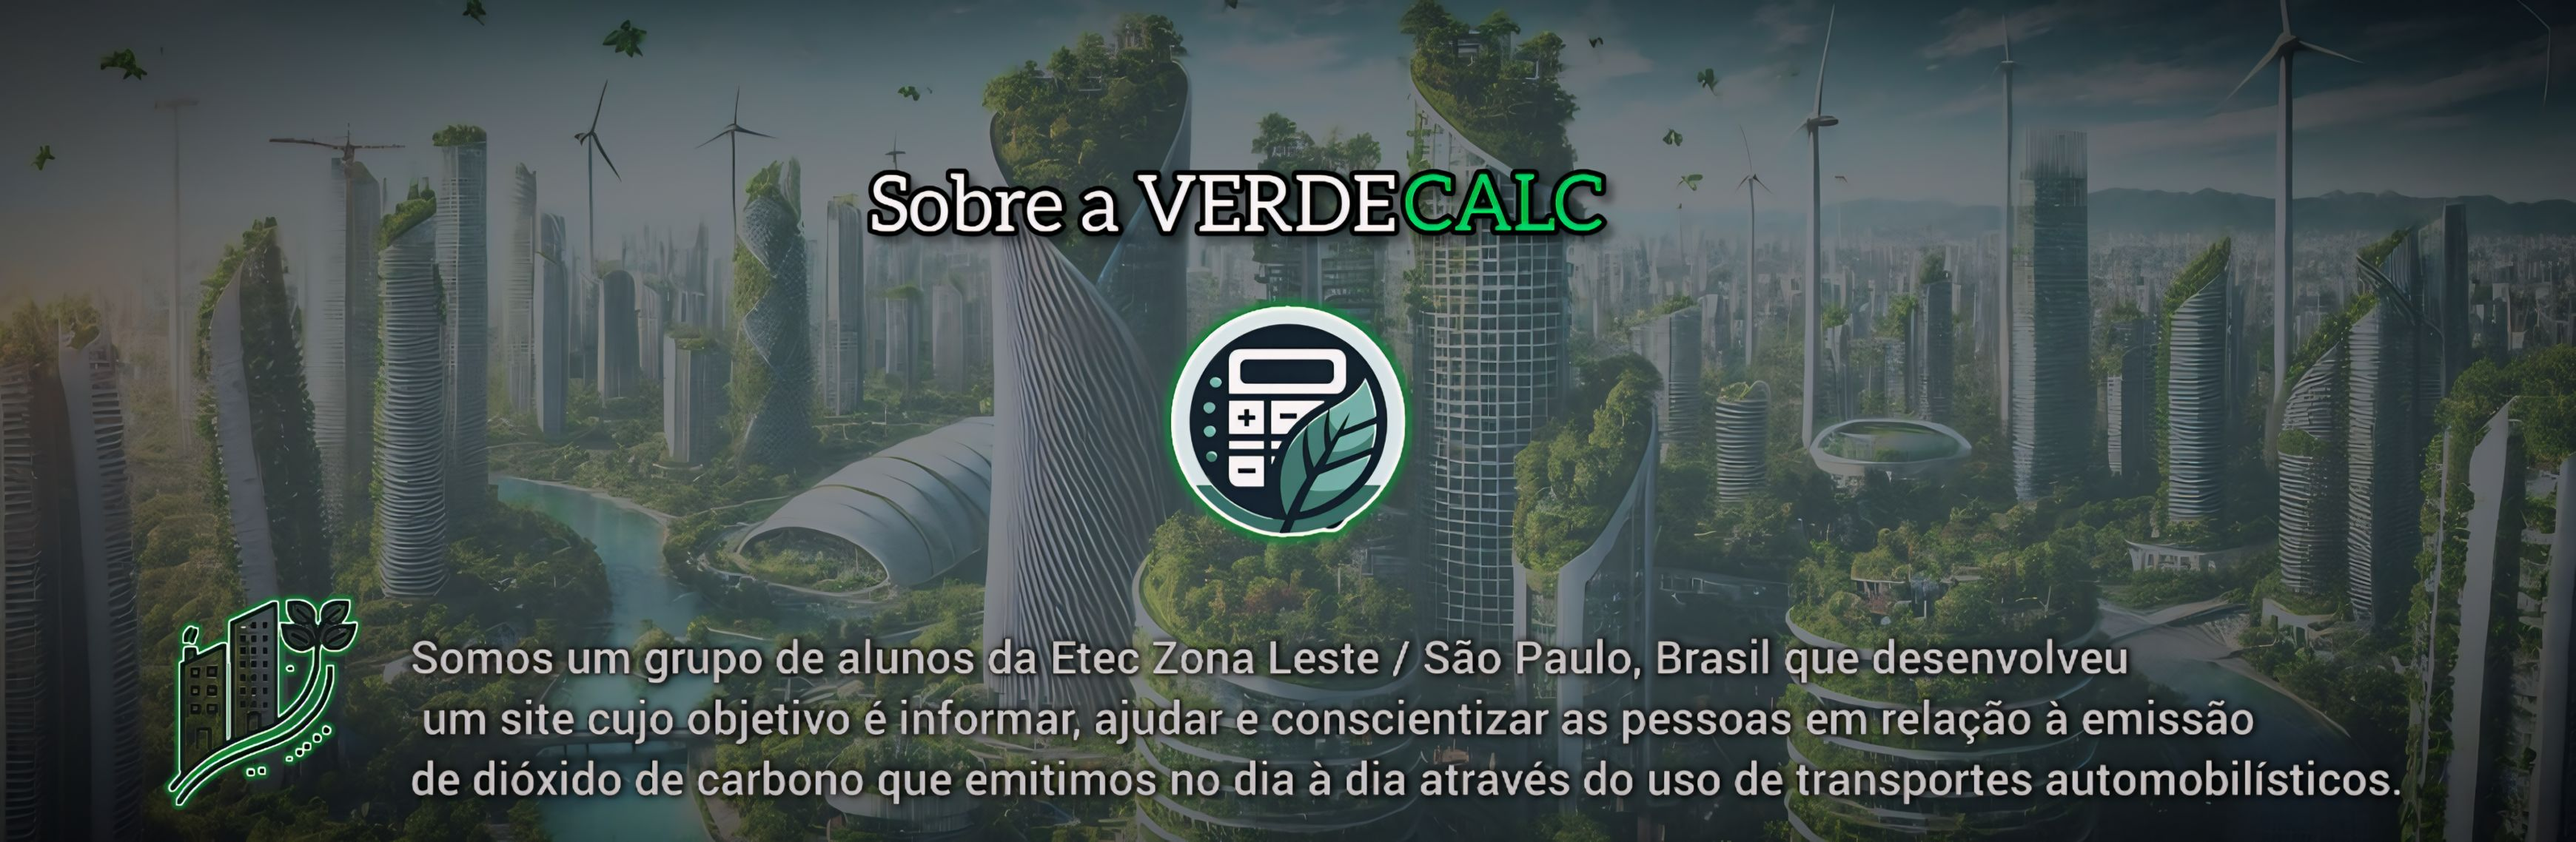
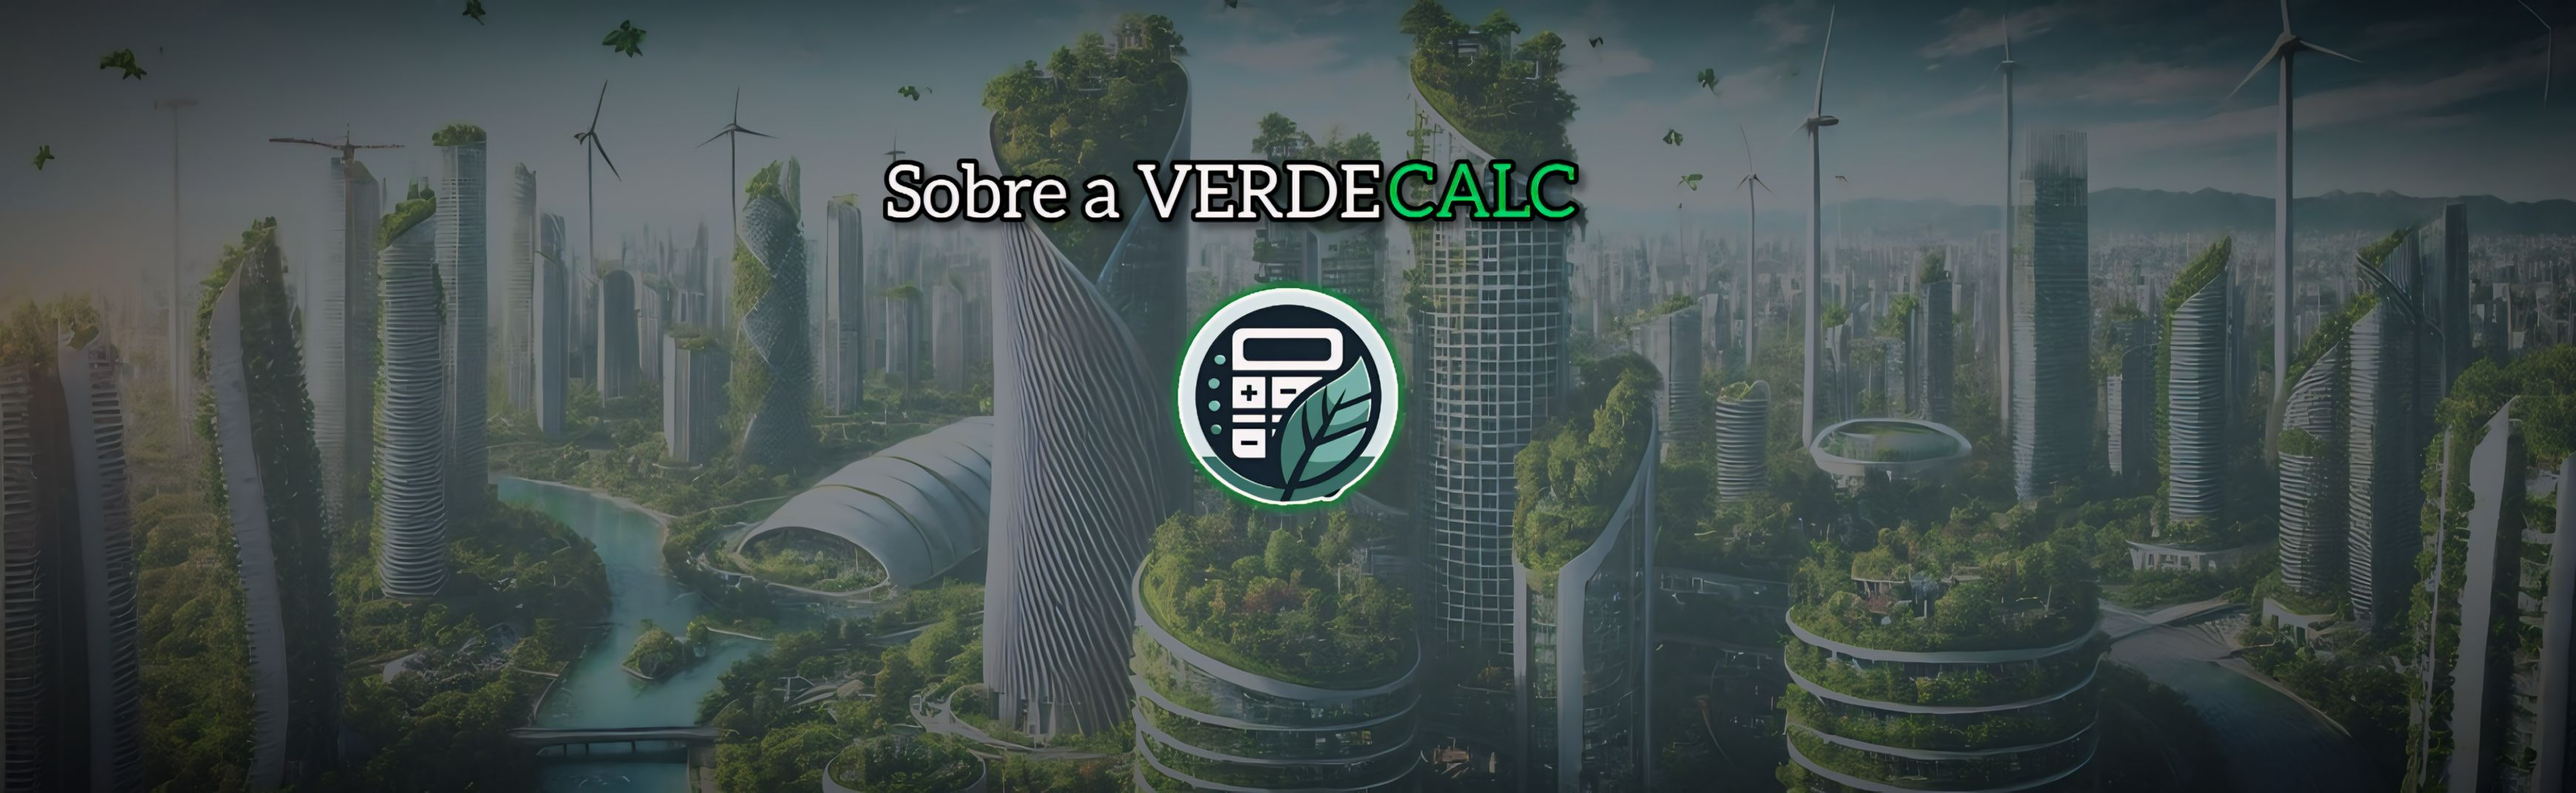
subindo o Quem Somos

diff --git a/FeiraTecnologica/src/views/Style/styleSomos.css b/FeiraTecnologica/src/views/Style/styleSomos.css
@@ -1,7 +1,211 @@
-.nav-link {
-    color: white !important;
-    margin-left: 20px;
+*{
+    margin: 0;
+    padding: 0;
+    box-sizing: border-box;
+    }
+
+.decora-nav{
+    background-color: rgb(0, 0, 0); 
+    box-shadow: 5px 5px 19px rgba(22, 117, 61, 0.6);
+    border-radius: 5px;
+    padding: 0px; 
+      
 }
-.nav-link:hover {
-    color: #d1e7dd !important;
+
+
+p{
+   
+    margin: -12px;
+}
+
+.centered {
+    display: flex;
+    justify-content: center;
+    margin-top: 20px; /* Ajuste a margem para posicionar o loader no topo */
+  }
+  
+  /* Estilos do loader */
+  .loader {
+    color: rgb(255, 255, 255);
+    font-family: "Poppins", sans-serif;
+    font-weight: 500;
+    font-size: 25px;
+    box-sizing: content-box;
+    padding: 10px 10px;
+    display: flex;
+    align-items: center;
+    border-radius: 8px;
+  }
+  
+
+
+  .words {
+    overflow: hidden;
+    position: relative;
+    height: 1em;
+    margin-left: 10px;
+  }
+  
+  .words::after {
+    content: "";
+    position: absolute;
+    inset: 0;
+    background: linear-gradient(
+      var(--bg-color) 10%,
+      transparent 30%,
+      transparent 70%,
+      var(--bg-color) 90%
+    );
+    z-index: 20;
+  }
+  
+  .word {
+    display: block;
+    height: 100%;
+    padding-left: 6px;
+    color: #00FF08;
+    animation: spin_4991 6s infinite;
+  }
+  
+  @keyframes spin_4991 {
+    10% {
+      transform: translateY(-102%);
+    }
+    25% {
+      transform: translateY(-100%);
+    }
+    35% {
+      transform: translateY(-202%);
+    }
+    50% {
+      transform: translateY(-200%);
+    }
+    60% {
+      transform: translateY(-302%);
+    }
+    75% {
+      transform: translateY(-300%);
+    }
+    85% {
+      transform: translateY(-402%);
+    }
+    100% {
+      transform: translateY(-400%);
+    }
+  }
+ 
+  
+/*Estilo do fundo */
+body{
+    background-image: url(../imagens/selvas-plantas.png);
+    background-size: cover;
+    background-repeat: no-repeat;
+    }
+/* Imagem de aprsentação "sobre a verdecalc" */
+.apresentando{
+    box-shadow: 5px 5px 19px rgba(22, 117, 61, 3.5);
+    border-radius: 20px;
+    padding: 0px;
+}
+
+.flex{
+    display: flex;
+}
+
+h1 {
+    color: white; /* Cor do texto */
+    text-shadow: 
+      1.5px 1.5px 0 black,
+     -1.5px 1.5px 0 black,
+      1.5px -1.5px 0 black,
+     -1.5px -1.5px 0 black,
+      1.5px 0 0 black,
+     -1.5px 0 0 black,
+      0 1.5px 0 black,
+      0 -1.5px 0 black;
+  }
+      
+
+.interface{
+    max-width: 1280px;
+    margin: 0 auto;    
+    }
+
+ section.topo-do-site{
+    padding: 20px 4%;
+}
+
+  section.topo-do-site .flex{
+  align-items: center;
+  gap: 100px;
+  }
+
+.topo-do-site h1{
+    color: #fff;
+    font-size: 35px;
+  }
+
+.txt-topo-site{
+    border: 1px solid rgb(26, 26, 26);
+    background-color: rgb(26, 26, 26);
+    padding: 15px;
+    border-radius: 6px;
+    box-shadow: 5px 5px 15px rgba(22, 117, 61, 3.5);
+    margin-left: -35px;
+}
+
+.topo-do-site h3{
+  text-shadow: 
+    1px 1px 0 black,
+    -1px 1px 0 black,
+    1px -1px 0 black,
+    -1px -1px 0 black,
+    1px 0 0 black,
+   -1px 0 0 black,
+    0 1px 0 black,
+    0 -1px 0 black;
+  margin: -10px;
+  color: #ffffff;
+  margin: 10px ;
+}
+
+/*logo flutuante*/
+.topo-do-site .img-topo-site img{
+  position: relative;
+  animation: flutuar 2s ease-in-out infinite alternate;
+}  
+
+@keyframes flutuar{
+    0%{
+        top: 0;
+    }
+    100%{
+        top: 30px;
+    }
+}
+
+.visao{
+    position: relative;
+    animation: flutuar 2s ease-in-out infinite alternate;  
+    margin-left: 200px;
+}
+@keyframes flutuar{
+    0%{
+        top: 0;
+    }
+    100%{
+        top: 30px;
+    }
+}
+.veiculo-verde{
+    color: #00FF08;
+    text-shadow: 
+    1px 1px 0 black,
+    -1px 1px 0 black,
+    1px -1px 0 black,
+    -1px -1px 0 black,
+    1px 0 0 black,
+   -1px 0 0 black,
+    0 1px 0 black,
+    0 -1px 0 black;
 }

diff --git a/FeiraTecnologica/src/views/Pages/quem_somos.php b/FeiraTecnologica/src/views/Pages/quem_somos.php
@@ -1,38 +1,118 @@
 <!DOCTYPE html>
 <html lang="en">
+
 <head>
     <meta charset="UTF-8">
     <meta name="viewport" content="width=device-width, initial-scale=1.0">
     <title>Document</title>
-    <link rel="stylesheet" href="FeiraTecnologica\src\views\Style\styleSomos.css">
+    <link rel="stylesheet" href="../Style/styleSomos.css">
 </head>
+
 <body>
-<?php 
-    include('C:\Users\gusta\Feira_Etec\FeiraTecnologica\src\views\AppView\NavBar.php');
-  ?>
 
-<main>
-    <center><img class="apresentando" src="imgtopocorreto.jpg" width="90%" height=""></center>
-    <section class="topo-do-site">
-        <div class="interface">
-            <div class="flex">
-                <div class="txt-topo-site">
-                    <h1>CONHEÇA OS DESENVOLVEDORES E <br>COLABORADORES DA <span>VERDE</span>CALE:</h1><br>
-                    <P>Esse site foi desenvolvido por um grupo de alunos da etec zona leste que tem como objetivo, informar,<br> ajudar e conscientizar
-                     as pessoas em relação a emissão de dióxido de carbono que emitimmos no <br> dia à dia através do uso de transporte automobilistico.</P>
-                </div>
+    <?php
+    include('../AppView/NavBar.php');
+    ?>
 
-                <div class="img-topo-site">
-                     <img src="SCCP_escudo-150px.png" width="480px" alt="">
-                </div>
+
+    <div class="centered">
+        <div class="loader">
+            <p>VERDE<span class="calc">CALC.</span></p>
+            <div class="words">
+                <span class="word">reciclagem</span>
+                <span class="word">natureza</span>
+                <span class="word">conservação</span>
+                <span class="word">ecossistema</span>
+                <span class="word">preservação</span>
             </div>
-        </div><!--interface-->
-    </section><!--topo da interface-->
-</main>
+        </div>
+    </div>
 
 
-<?php
+
+
+    <main>
+        <center><img class="apresentando" src="../imagens/imgtopocorreto.jpg" width="90%" height=""></center> <br><br>
+        <section class="topo-do-site">
+            <div class="interface">
+                <div class="flex">
+                    <div class="txt-topo-site">
+                        <h3> Somos a VerdeCalc! E nossa equipe é formada por um grupo de 6 estudantes da Etec Zona-Leste, (cidade de São Paulo,
+                            Brasil), sendo eles: Alexander Borges, Davi Lucas, Carlos Henrique, Gustavo Ribeiro, Kauan Souza e Diego Oliveira;
+                            que em conjunto pensamos em como poderíamos ajudar o meio ambiente e ajudar as pessoas que se preocupam com o mesmo.
+                        </h3>
+
+                        <h3>O consumo residencial de eletricidade, gás de cozinha e cigarro representa uma importante fonte de poluição do ar e impactos ambientais. A demanda por eletricidade em casas e apartamentos gera uma necessidade constante de produção de energia, que muitas vezes provém de fontes não-renováveis, como usinas a carvão, gás natural e petróleo. Essas fontes emitem uma grande quantidade de dióxido de carbono (CO₂) e outros poluentes na atmosfera, contribuindo para o aquecimento global e a degradação da qualidade do ar. Nas residências, o uso de aparelhos elétricos em grande escala, como aquecedores, ar-condicionado e eletrodomésticos, amplifica essa demanda e, por consequência, os impactos ambientais. <br><br>
+
+                            O uso de gás de cozinha (GLP), bastante comum em residências para o preparo de alimentos, também possui um efeito poluente, embora em menor escala. Quando o gás é queimado, ele libera gases de combustão, como CO₂, que contribuem para o efeito estufa. Além disso, em situações onde o gás não é totalmente queimado, podem ser liberados monóxido de carbono (CO) e outros hidrocarbonetos, que afetam a saúde e a qualidade do ar dentro das casas, especialmente em áreas mal ventiladas. <br><br>
+
+                            Já o cigarro, por sua vez, é uma fonte de poluição residencial menos evidente, mas significativa. A queima do tabaco libera uma série de substâncias tóxicas, como nicotina, alcatrão e monóxido de carbono, que impactam diretamente a saúde dos fumantes e das pessoas ao redor, especialmente em ambientes fechados. Esses poluentes também se acumulam no ambiente, aderindo a superfícies e tecidos, o que prolonga a exposição de todos aos resíduos tóxicos.</h3>
+
+                        <h3>
+                            Pensando nisso... em um curto períódo de 4 meses de muito trabalho, a equipe VerdeCalc desenvolveu esse site com o objetivo
+                            de através da tecnologia e da matemática ajudar as pessoas a se conscientizar e preservar o meio ambiente diminuindo
+                            sua emissão de dióxido de carbono semanal.
+                        </h3>
+                    </div>
+
+                    <div class="img-topo-site">
+                        <img src="../imagens/SCCP_escudo-150px.png" width="480px" alt="">
+                    </div>
+                          
+                </div><br><br><br><br>
+
+                <div class="centered">
+        <div class="loader">
+            <p>CALCULO DE <span class="calc"> VEÍCULOS</span></p>
+            <div class="words">
+                <span class="word">diesel</span>
+                <span class="word">etanol</span>
+                <span class="word">carro</span>
+                <span class="word">caminhão</span>
+                <span class="word">moto</span>
+            </div>
+        </div>
+    </div>
+<br>
+    <div class="txt-topo-site">
+                        <h3> Claro que não tratamos apenas de gás de cozinha, eletrecidade e cigarro... até por que em média a emissão de gases poluentes
+                            desses três juntos ainda são menores em relaçao a emissão que um veículo à gasolina comum emite; pensando nessa informação
+                            importantíssima, fizemos também a calculadora de veículos! No páragrafo abaixo falamos um pouco sobre o quão grave é a emissão de gases
+                            poluentes por veículos como moto, carro e caminhão:
+                        </h3>
+
+                        <h3>O consumo residencial de eletricidade, gás de cozinha e cigarro representa uma importante fonte de poluição do ar e impactos ambientais. A demanda por eletricidade em casas e apartamentos gera uma necessidade constante de produção de energia, que muitas vezes provém de fontes não-renováveis, como usinas a carvão, gás natural e petróleo. Essas fontes emitem uma grande quantidade de dióxido de carbono (CO₂) e outros poluentes na atmosfera, contribuindo para o aquecimento global e a degradação da qualidade do ar. Nas residências, o uso de aparelhos elétricos em grande escala, como aquecedores, ar-condicionado e eletrodomésticos, amplifica essa demanda e, por consequência, os impactos ambientais. <br><br>
+
+                            O uso de gás de cozinha (GLP), bastante comum em residências para o preparo de alimentos, também possui um efeito poluente, embora em menor escala. Quando o gás é queimado, ele libera gases de combustão, como CO₂, que contribuem para o efeito estufa. Além disso, em situações onde o gás não é totalmente queimado, podem ser liberados monóxido de carbono (CO) e outros hidrocarbonetos, que afetam a saúde e a qualidade do ar dentro das casas, especialmente em áreas mal ventiladas. <br><br>
+
+                            Já o cigarro, por sua vez, é uma fonte de poluição residencial menos evidente, mas significativa. A queima do tabaco libera uma série de substâncias tóxicas, como nicotina, alcatrão e monóxido de carbono, que impactam diretamente a saúde dos fumantes e das pessoas ao redor, especialmente em ambientes fechados. Esses poluentes também se acumulam no ambiente, aderindo a superfícies e tecidos, o que prolonga a exposição de todos aos resíduos tóxicos.</h3>
+
+                        <h3>
+                            Pensando nisso... em um curto períódo de 4 meses de muito trabalho, a equipe VerdeCalc desenvolveu esse site com o objetivo
+                            de através da tecnologia e da matemática ajudar as pessoas a se conscientizar e preservar o meio ambiente diminuindo
+                            sua emissão de dióxido de carbono semanal.
+                        </h3>
+                    </div>
+
+            </div><!--interface-->
+        </section><!--topo da interface-->
+
+        <br><br><br><br>
+
+        <article>
+            <div class="visao">
+                <img src="../imagens/3040659.png" width="280px" alt="">
+            </div>
+        </article>
+
+
+    </main>
+
+    <br><br><br><br>
+
+    <?php
     include('C:\Users\gusta\Feira_Etec\FeiraTecnologica\src\views\AppView\Footer.php');
     ?>
 </body>
+
 </html>

diff --git a/FeiraTecnologica/src/views/AppView/NavBar.php b/FeiraTecnologica/src/views/AppView/NavBar.php
@@ -13,7 +13,7 @@
                 <a class="nav-link" href="../../../index.php?m=form1&k=RDCT">Calculadora CO2</a>
               </li>
               <li class="nav-item">
-                <a class="nav-link" href="FeiraTecnologica/src/views/Pages/quem_somos.php">Quem somos</a>
+                <a class="nav-link" href="../../../index.php?m=quem_somos&k=RDCT">Quem somos</a>
               </li>
               <li class="nav-item dropdown">
                 <a class="nav-link dropdown-toggle" href="#" role="button" data-bs-toggle="dropdown" aria-expanded="false">
@@ -23,7 +23,7 @@
                   <li><a class="dropdown-item" href="../../../index.php?m=tela_inicial&k=RDCT">Início</a></li>
                   <li><hr class="dropdown-divider"></li>
                   <li><a class="dropdown-item" href="../../../index.php?m=form1&k=RDCT">Calculadora CO2</a></li>
-                  <li><a class="dropdown-item" href="FeiraTecnologica/src/views/Pages/quem_somos.php">Quem Somos</a></li>
+                  <li><a class="dropdown-item" href="../../../index.php?m=quem_somos&k=RDCT">Quem Somos</a></li>
                 </ul>
               </li>
             </ul>
